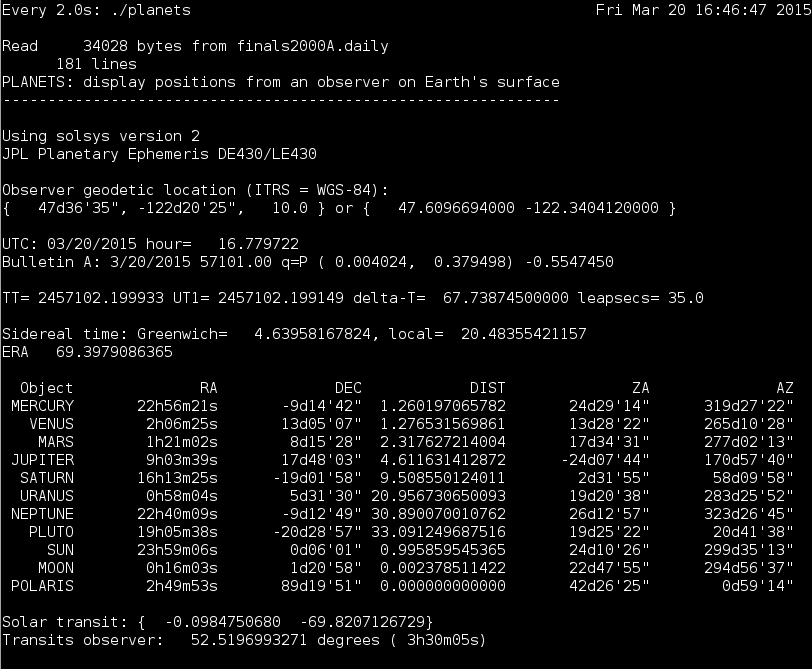
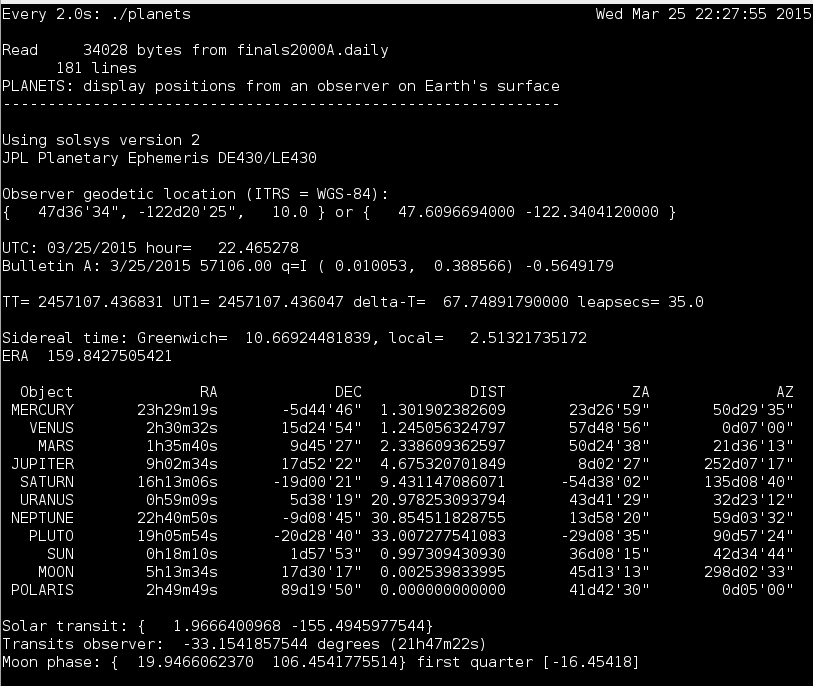
Document moon_phase. Kill EOL WS.

diff --git a/ephutil/moon.h b/ephutil/moon.h
@@ -5,6 +5,34 @@
 
 const char *moon_phase_names[NBR_OF_MOON_PHASES];
 
+/*
+ * Calculate the equatorial spherical coordinates of the solar transit point with
+ * respect to the center of the Earth-facing surface of the Moon.
+ * Because of tidal locking, the Moon always points the same face to Earth.
+ * The center of this face is the phase origin. When the phase is {0,0}, it
+ * means that the Earth and Sun transit points on the Moon are coincident.
+ * Positive phase latitudes mean the Sun transit point is north of the Earth
+ * transit point. Positive phase longitudes mean the Sun transit point is east
+ * of the Sun transit point.
+ *
+ * Input arguments:
+ *   tp - pointer to the time_parameters_t structure containing the Julian Date
+ *        and TT for the moment of interest.
+ *   sun - pointer to the object structure initialized for the Sun
+ *   moon - pointer to the object structure initialized for the Moon
+ *   accuracy - Selection for accuracy (0=full, 1=reduced)
+ * Output arguments:
+ *   phlat - pointer to a double that will be assigned the phase latitude.
+ *           This is the number of degrees north of the Earth transit point
+ *           on the Moon.
+ *   phlon - pointer to a double that will be assigned the phase longitude.
+ *           This is the number of degrees east of the Earth transit point
+ *           on the Moon.
+ *   phindex - pointer to an int that will be assigned a number from 0 to 7,
+ *           corresponding to one of the common names of the Moon phases.
+ *           Use moon_phase_names[phindex] to obtain a string name for the
+ *           Moon phase.
+ */
 short int moon_phase(time_parameters_t* tp,
         object* sun, object* moon, short int accuracy,
         double* phlat, double* phlon, int* phindex);

diff --git a/planets/planets.c b/planets/planets.c
@@ -177,11 +177,12 @@ int main(void) {
      */
 
     if ((error = ephem_open("JPLEPH", &jd_beg, &jd_end, &de_num)) != 0) {
-    if (error == 1) {
-        printf("JPL ephemeris file not found.\n");
-    } else {
-        printf("Error reading JPL ephemeris file header.\n");
-        return error;
+        if (error == 1) {
+            printf("JPL ephemeris file not found.\n");
+        } else {
+            printf("Error reading JPL ephemeris file header.\n");
+            return error;
+        }
     } else {
         printf("JPL ephemeris DE%d open. Start JD = %10.2f  End JD = %10.2f\n\n",
             de_num, jd_beg, jd_end);
@@ -262,9 +263,17 @@ int main(void) {
     printf("Transits observer: %15.10f degrees (%s)\n", tmp,
             as_hms(ra_str, normalize(tmp / 15.0, 24.0)));
 
-    moon_phase(&timep, &obj[9], &obj[10], accuracy, &phlat, &phlon, &phindex);
-    printf("Moon phase: {%15.10f %15.10f} %s\n", phlat, phlon,
-            phindex < 0 || phindex > 7 ? "???" : moon_phase_names[phindex]);
+    error = moon_phase(&timep, &obj[9], &obj[10], accuracy, &phlat, &phlon, &phindex);
+    if (error != 0) {
+        printf("Error %d from moon_phase.", error);
+        return error;
+    }
+    if (phindex < 0 || phindex > 7) {
+        printf("WARNING: Moon phase index (%d) is out of bounds.\n", phindex);
+        phindex = 0;
+    }
+    printf("Moon phase: {%15.10f %15.10f} %s [%+9.5f]\n", phlat, phlon,
+            moon_phase_names[phindex], (double)(phindex * 45) - normalize(phlon, 360.0));
 
 #if !defined(USING_SOLSYSV2)
     ephem_close();  /* remove this line for use with solsys version 2 */

diff --git a/planets/bull_a.c b/planets/bull_a.c
@@ -181,7 +181,7 @@ int bull_a_init()
                 if (fd >= 0) {
                     offset = 0;
                     while (status == 0 && offset < file_size) {
-                        nbr_bytes = write(fd, file_buffer + offset, 
+                        nbr_bytes = write(fd, file_buffer + offset,
                                 file_size - offset);
                         if (nbr_bytes < 0) {
                             status = -1;
@@ -238,7 +238,7 @@ int bull_a_init()
                     entry->ut1_utc_quality = p[57];
                     entry->ut1_utc = get_double(p+58, 10);
                     entry->ut1_utc_err = get_double(p+68, 10);
-                    /* to get true calendar year, add 1900 for MJD<=51543 
+                    /* to get true calendar year, add 1900 for MJD<=51543
                      * or add 2000 for MJD>=51544
                      */
                     if (entry->mjd >= 51544.0) {
@@ -261,7 +261,7 @@ bull_a_entry_t* bull_a_find(double mjd)
     bull_a_entry_t* entry;
     bull_a_entry_t* entry_end = entries + nbr_of_entries;
     bull_a_entry_t* prev_entry = NULL;
-    for (entry = entries; entry != NULL && entry != entry_end && entry->mjd <= mjd; 
+    for (entry = entries; entry != NULL && entry != entry_end && entry->mjd <= mjd;
             ++entry) {
         prev_entry = entry;
     }

diff --git a/ephutil/ephutil.h b/ephutil/ephutil.h
@@ -60,7 +60,7 @@ int get_eph_title(char* out_str, int out_len, const char* eph_name);
 
 /* normalize a periodic value
  * return a double in the range [0.0, period) which represents
- * the "phase" of val. For example, normalize(theta, 2*PI) will 
+ * the "phase" of val. For example, normalize(theta, 2*PI) will
  * return the phase of theta in radians. normalize( julian_date, 7.0 )
  * will return the day-of-the-week for the given julian_date.
  */

diff --git a/ephutil/ephutil.c b/ephutil/ephutil.c
@@ -131,7 +131,7 @@ void make_time_parameters(time_parameters_t* tp, double jd_utc, double ut1_utc) 
     tp->jd_ut1 = tp->jd_utc + ut1_utc / 86400.0;
     tp->delta_t = 32.184 + tp->leapsecs - ut1_utc;
 
-    printf ("TT=%15.6f UT1=%15.6f delta-T=%16.11f leapsecs=%5.1f\n\n", tp->jd_tt, 
+    printf ("TT=%15.6f UT1=%15.6f delta-T=%16.11f leapsecs=%5.1f\n\n", tp->jd_tt,
     tp->jd_ut1, tp->delta_t, tp->leapsecs);
 }
 

diff --git a/ephutil/moon.c b/ephutil/moon.c
@@ -12,7 +12,8 @@ const char *moon_phase_names[NBR_OF_MOON_PHASES] = {
 };
 
 /*
- * Calculate the position vector from Moon to Sun.
+ * Calculate the equatorial spherical coordinates of the solar transit point with
+ * respect to the center of the Earth-facing surface of the Moon.
  */
 short int moon_phase(time_parameters_t* tp,
         object* sun, object* moon, short int accuracy,

diff --git a/README.md b/README.md
@@ -4,17 +4,17 @@ Basic vector astronomy using NOVAS
 
 "The Naval Observatory Vector Astronomy Software (NOVAS) is a source-code
 library in Fortran, C and Python that provides common astrometric quantities
-and transformations. It can supply, in one or two function calls, the 
-instantaneous celestial position of any star or planet in a variety of 
+and transformations. It can supply, in one or two function calls, the
+instantaneous celestial position of any star or planet in a variety of
 coordinate systems."
 _NOVAS C 3.1 Guide_
 
-This project uses the NOVAS C-library to calculate the sky positions of 
+This project uses the NOVAS C-library to calculate the sky positions of
 the planets, Sun and Moon, from an observer at a fixed location on Earth.
 
 It leverages the general purpose planet ephemeris file DE430, published
 15-Aug-2013 by the National Aeronautics and Space Administration (NASA)
-Jet Propulsion Laboratory (JPL). Following the instructions below, you 
+Jet Propulsion Laboratory (JPL). Following the instructions below, you
 will download the text files that make up DE430, along with Fortran
 code that parses these and produces a binary ephemeris file for your
 architecture. Once the binary DE430 is built and tested, you will use
@@ -30,7 +30,7 @@ free to download from the publishers. Neither is provided here.
 
 ### Instructions for creating binary JPL Ephemeris DE430
 
-These instructions were tested on FC19 and FC20 x86_64 Linux. 
+These instructions were tested on FC19 and FC20 x86_64 Linux.
 
 ### NOVAS References
 
@@ -100,7 +100,7 @@ In `jplsubs.f`, in `SUBROUTINE FSIZER3`, change the line:
 ```
        NRECL=
 ```
-       
+
 To:
 
 ```
@@ -222,7 +222,7 @@ Look for two locations where `cdim` is initialized to 400. Look for lines matchi
 ```
       PARAMETER (cdim = 400)
 ```
-      
+
 Change the `400` to `600`
 
 Build `checkout-stars`
@@ -343,6 +343,19 @@ from an older ephemeris. Here's my output:
 # Congratulations!
 
 You have built and tested NOVAS with JPL DE430.
+
+# Planets
+
+Once a binary ephemeris is available, you can build and run `planets`.
+The code for fetching Bulletin A from the USNO requires the `libcurl-devel`
+package. A symbolic link to `JPLEPH` will also be required.
+
+```
+cd ../planets
+make
+ln -s ../ephemeris/fortran/JPLEPH
+watch ./planets
+```
 
 ## Further Reading
 
